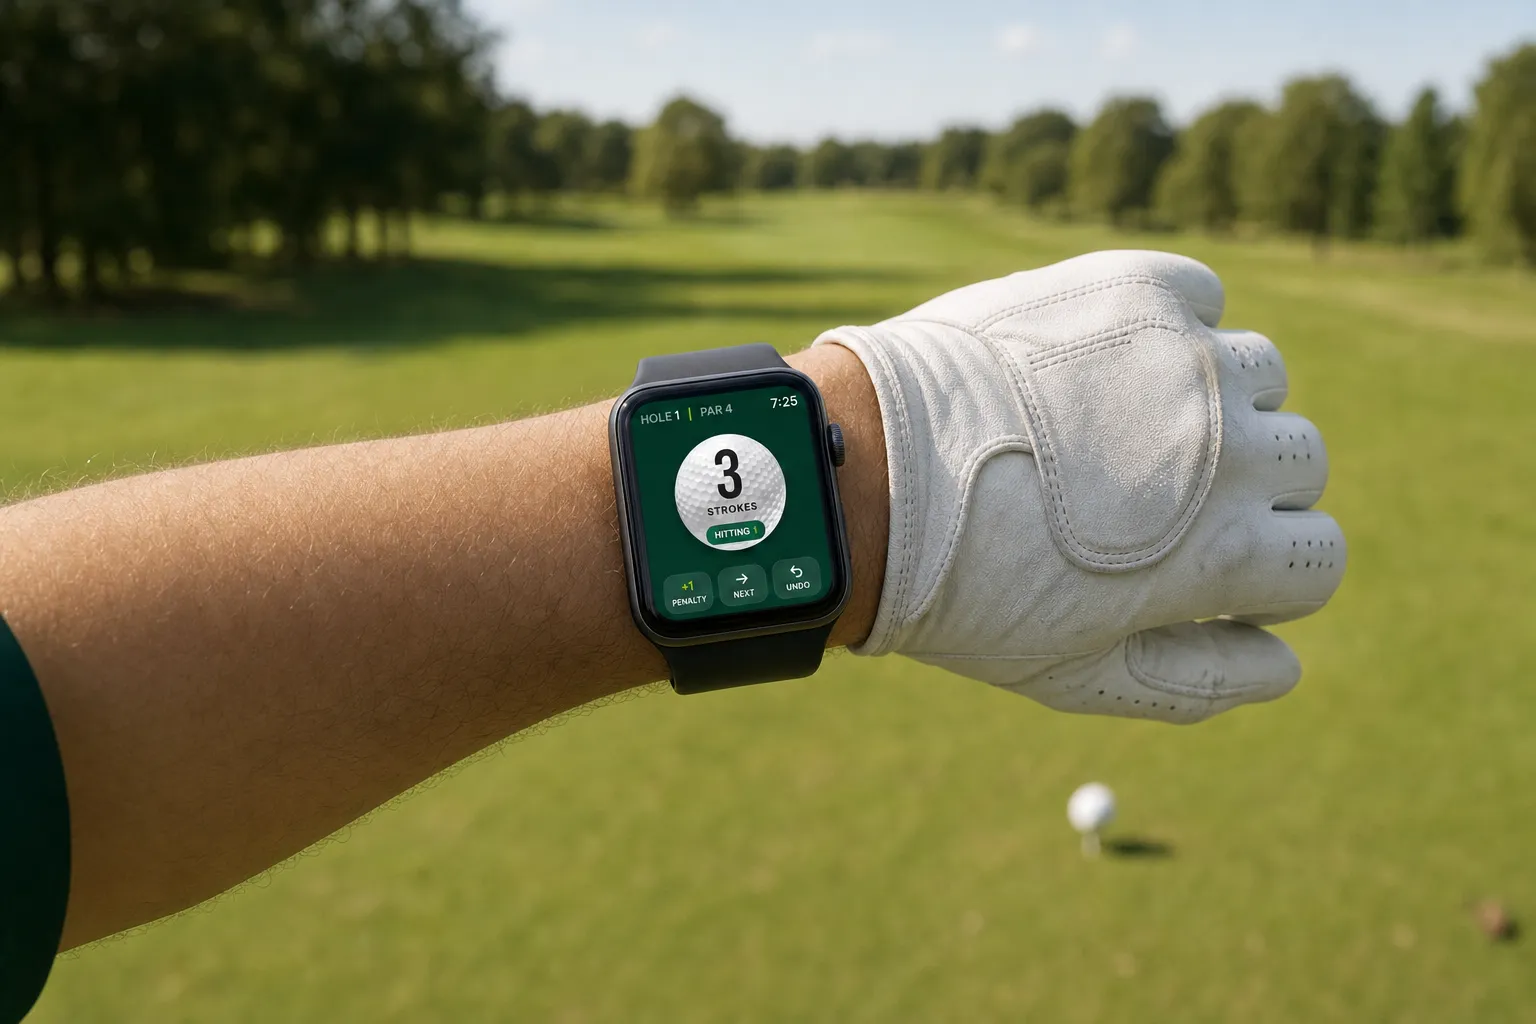
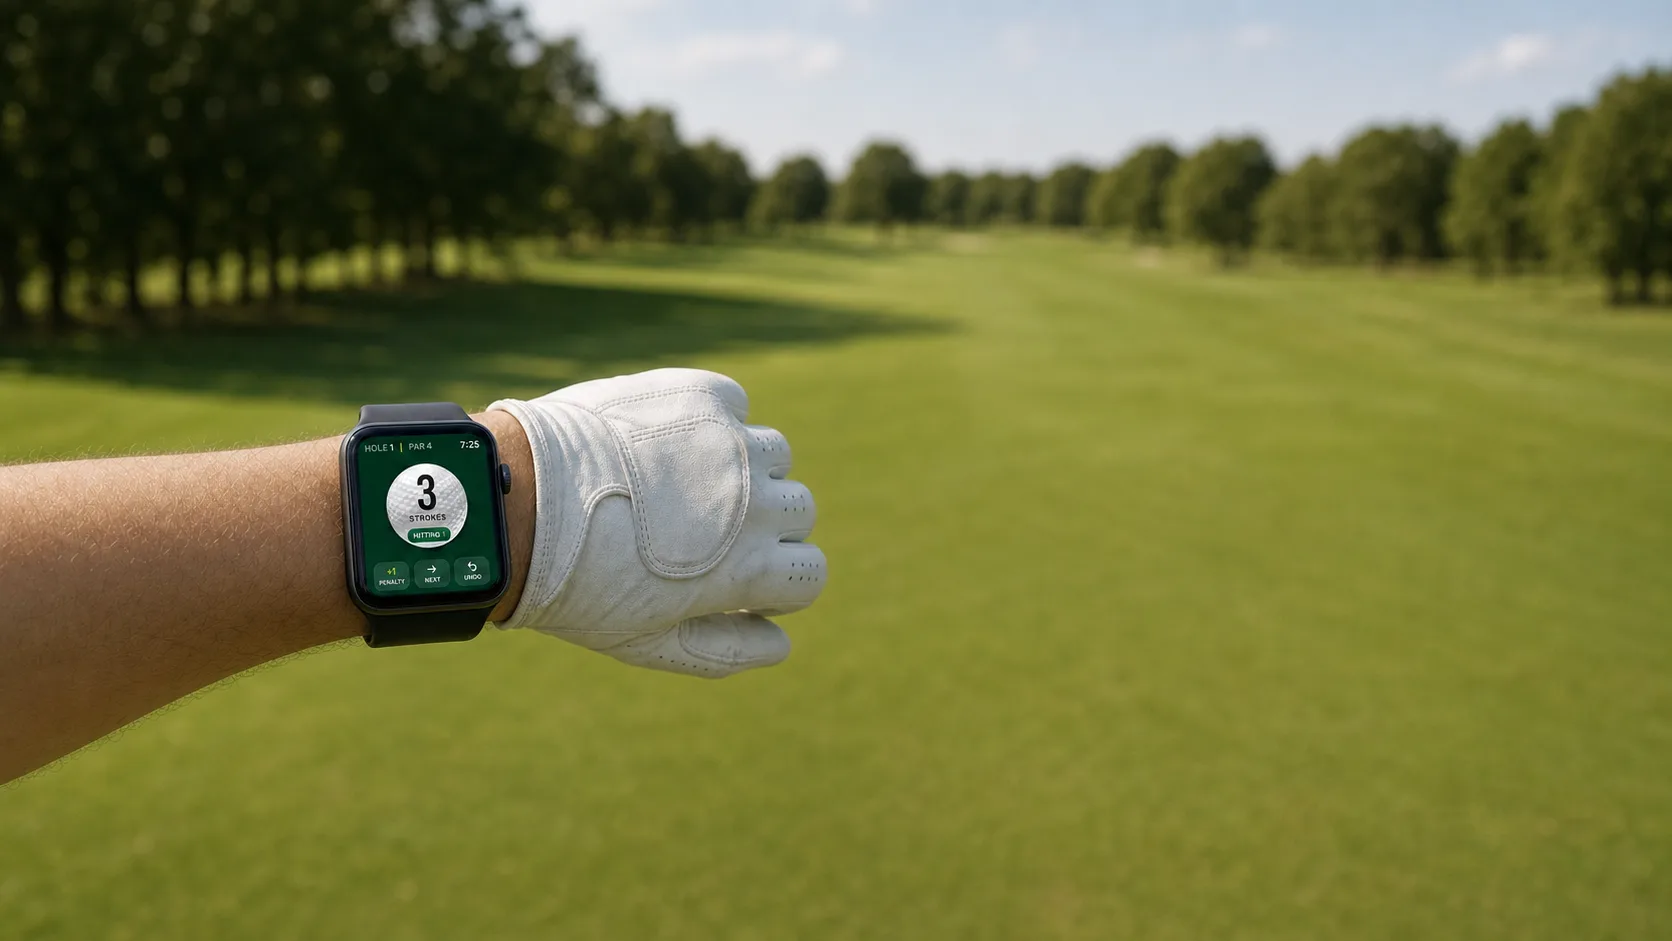
Apple Watch section: new wider course plate, copy on the right
Swaps in the wider watch photo (watch left, open fairway right) and flips the copy to the right over a dark-right overlay, so the watch stays visible on the left and the text stays legible (WCAG AA).

diff --git a/app/globals.css b/app/globals.css
@@ -323,10 +323,10 @@ a.btn:hover { color: var(--green-deep); filter: brightness(1.04); }
 .ss-watch {
   position: relative;
   background:
-    linear-gradient(95deg, rgba(15,36,27,0.94) 0%, rgba(20,50,37,0.86) 42%, rgba(27,67,50,0.52) 72%, rgba(45,106,79,0.30) 100%),
+    linear-gradient(95deg, rgba(45,106,79,0.26) 0%, rgba(27,67,50,0.48) 34%, rgba(20,50,37,0.84) 64%, rgba(15,36,27,0.94) 100%),
     url("/images/watch-course-bg.webp");
   background-size: cover;
-  background-position: center;
+  background-position: left center;
   color: var(--offwhite);
   overflow: hidden;
   padding: var(--section-pad-y) var(--container-pad);
@@ -337,11 +337,11 @@ a.btn:hover { color: var(--green-deep); filter: brightness(1.04); }
       linear-gradient(180deg, rgba(15,36,27,0.90) 0%, rgba(20,50,37,0.88) 100%),
       url("/images/watch-course-bg.webp");
     background-size: cover;
-    background-position: center;
+    background-position: left center;
   }
 }
 .ss-watch-blob { position: absolute; top: 50%; left: -140px; transform: translateY(-50%); width: 420px; height: 420px; border-radius: 50%; background: radial-gradient(circle, rgba(150,196,30,0.12) 0%, transparent 70%); pointer-events: none; }
-.ss-watch-inner { max-width: 1200px; margin: 0 auto; display: flex; flex-wrap: wrap-reverse; align-items: center; gap: clamp(36px, 6vw, 80px); }
+.ss-watch-inner { max-width: 1200px; margin: 0 auto; display: flex; flex-wrap: wrap-reverse; align-items: center; justify-content: flex-end; gap: clamp(36px, 6vw, 80px); }
 .ss-watch-mock { flex: 0 1 320px; min-width: 260px; display: flex; justify-content: center; }
 .ss-watch-float { animation: ssFloat 6.5s ease-in-out infinite; }
 .ss-watch-body { width: 232px; height: 280px; background: linear-gradient(160deg, #2b2b2e, #111113); border-radius: 64px; padding: 16px; box-shadow: 0 40px 80px rgba(0,0,0,0.55), inset 0 0 0 2px rgba(255,255,255,0.06); }
